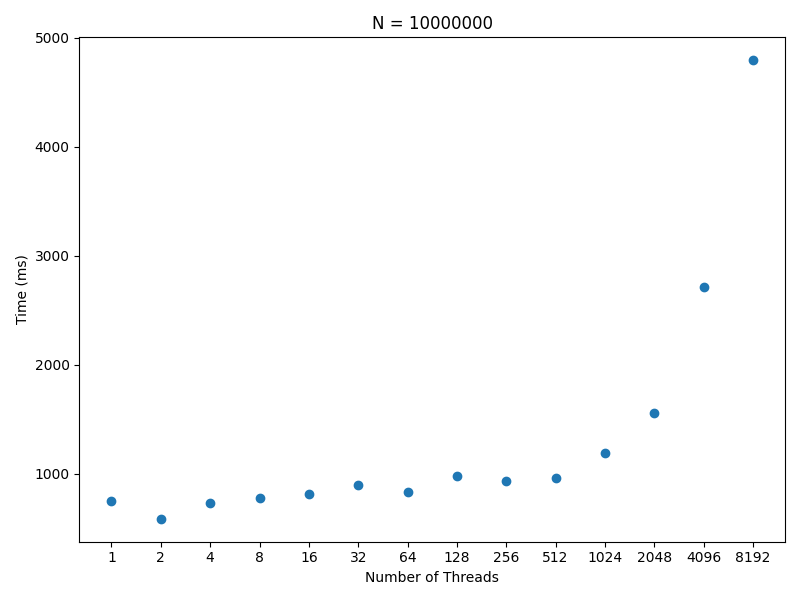
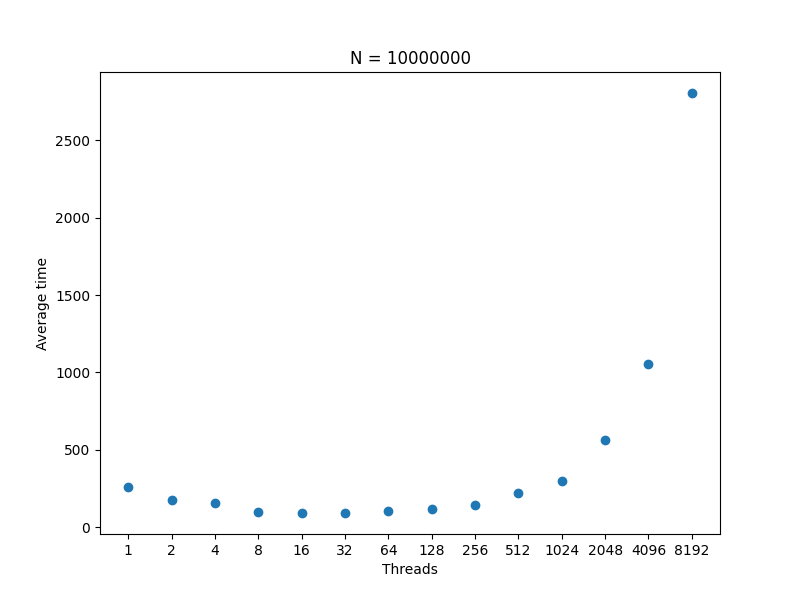
Update sieve tests results

diff --git a/PrimesFinder/src/main/java/PrimesFinder/SieveOfEratosthenes/README.md b/PrimesFinder/src/main/java/PrimesFinder/SieveOfEratosthenes/README.md
@@ -1,44 +1,170 @@
 # Performance Results
 =======================
 
-## N = 10,000,000
+## N = 100
 
 | Threads | Average Time |
 |---------|--------------|
-| 1       | 751ms        |
-| 2       | 585ms        |
-| 4       | 730ms        |
-| 8       | 780ms        |
-| 16      | 815ms        |
-| 32      | 894ms        |
-| 64      | 831ms        |
-| 128     | 980ms        |
-| 256     | 936ms        |
-| 512     | 956ms        |
-| 1024    | 1192ms       |
-| 2048    | 1554ms       |
-| 4096    | 2710ms       |
-| 8192    | 4794ms       |
+| 1       | 1ms          |
+| 2       | 0ms          |
+| 4       | 1ms          |
+| 8       | 2ms          |
+| 16      | 3ms          |
+| 32      | 8ms          |
+| 64      | 12ms         |
+| 128     | 23ms         |
+| 256     | 62ms         |
+| 512     | 120ms        |
+| 1024    | 256ms        |
+| 2048    | 498ms        |
+| 4096    | 910ms        |
+| 8192    | 2987ms       |
+
+![Performance Graph](images/N_100.png)
+
+## N = 1000
+
+| Threads | Average Time |
+|---------|--------------|
+| 1       | 4ms          |
+| 2       | 4ms          |
+| 4       | 11ms         |
+| 8       | 114ms        |
+| 16      | 403ms        |
+| 32      | 167ms        |
+| 64      | 112ms        |
+| 128     | 106ms        |
+| 256     | 89ms         |
+| 512     | 126ms        |
+| 1024    | 249ms        |
+| 2048    | 495ms        |
+| 4096    | 1516ms       |
+| 8192    | 5032ms       |
+
+![Performance Graph](images/N_1000.png)
+
+## N = 10000
+
+| Threads | Average Time |
+|---------|--------------|
+| 1       | 1ms          |
+| 2       | 3ms          |
+| 4       | 2ms          |
+| 8       | 6ms          |
+| 16      | 365ms        |
+| 32      | 127ms        |
+| 64      | 58ms         |
+| 128     | 46ms         |
+| 256     | 131ms        |
+| 512     | 250ms        |
+| 1024    | 398ms        |
+| 2048    | 535ms        |
+| 4096    | 1700ms       |
+| 8192    | 3686ms       |
+
+![Performance Graph](images/N_10000.png)
+
+## N = 100000
+
+| Threads | Average Time |
+|---------|--------------|
+| 1       | 552ms        |
+| 2       | 361ms        |
+| 4       | 473ms        |
+| 8       | 20ms         |
+| 16      | 139ms        |
+| 32      | 21ms         |
+| 64      | 11ms         |
+| 128     | 23ms         |
+| 256     | 55ms         |
+| 512     | 105ms        |
+| 1024    | 235ms        |
+| 2048    | 488ms        |
+| 4096    | 1010ms       |
+| 8192    | 4516ms       |
+
+![Performance Graph](images/N_100000.png)
+
+## N = 1000000
+
+| Threads | Average Time |
+|---------|--------------|
+| 1       | 515ms        |
+| 2       | 199ms        |
+| 4       | 24ms         |
+| 8       | 17ms         |
+| 16      | 18ms         |
+| 32      | 10ms         |
+| 64      | 27ms         |
+| 128     | 27ms         |
+| 256     | 63ms         |
+| 512     | 109ms        |
+| 1024    | 217ms        |
+| 2048    | 500ms        |
+| 4096    | 1193ms       |
+| 8192    | 5257ms       |
+
+![Performance Graph](images/N_1000000.png)
+
+## N = 10000000
+
+| Threads | Average Time |
+|---------|--------------|
+| 1       | 256ms        |
+| 2       | 173ms        |
+| 4       | 158ms        |
+| 8       | 97ms         |
+| 16      | 91ms         |
+| 32      | 94ms         |
+| 64      | 107ms        |
+| 128     | 119ms        |
+| 256     | 142ms        |
+| 512     | 222ms        |
+| 1024    | 298ms        |
+| 2048    | 565ms        |
+| 4096    | 1057ms       |
+| 8192    | 2807ms       |
 
 ![Performance Graph](images/N_10000000.png)
 
-## N = 100,000,000
+## N = 100000000
 
 | Threads | Average Time |
 |---------|--------------|
-| 1       | 7037ms       |
-| 2       | 6714ms       |
-| 4       | 7045ms       |
-| 8       | 7639ms       |
-| 16      | 7829ms       |
-| 32      | 7362ms       |
-| 64      | 7513ms       |
-| 128     | 7307ms       |
-| 256     | 7396ms       |
-| 512     | 7918ms       |
-| 1024    | 7442ms       |
-| 2048    | 8286ms       |
-| 4096    | 8818ms       |
-| 8192    | 10051ms      |
+| 1       | 2226ms       |
+| 2       | 1878ms       |
+| 4       | 1693ms       |
+| 8       | 1837ms       |
+| 16      | 1663ms       |
+| 32      | 1582ms       |
+| 64      | 1237ms       |
+| 128     | 809ms        |
+| 256     | 841ms        |
+| 512     | 806ms        |
+| 1024    | 1154ms       |
+| 2048    | 1231ms       |
+| 4096    | 1868ms       |
+| 8192    | 3251ms       |
 
 ![Performance Graph](images/N_100000000.png)
+
+## N = 1000000000
+
+| Threads | Average Time |
+|---------|--------------|
+| 1       | 21302ms      |
+| 2       | 19362ms      |
+| 4       | 18868ms      |
+| 8       | 18857ms      |
+| 16      | 18809ms      |
+| 32      | 18334ms      |
+| 64      | 18615ms      |
+| 128     | 17696ms      |
+| 256     | 16622ms      |
+| 512     | 12474ms      |
+| 1024    | 9268ms       |
+| 2048    | 8678ms       |
+| 4096    | 9318ms       |
+| 8192    | 9960ms       |
+
+![Performance Graph](images/N_1000000000.png)
